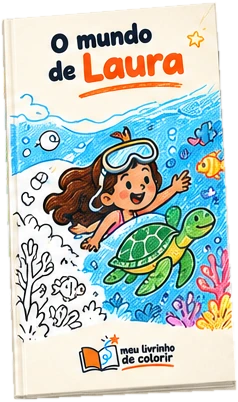
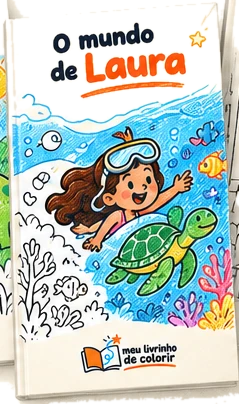
LP com caixas de diferenciais, faixas arredondadas e enfeites do kit
O dono pediu para ver no Behance como melhorar a LP e aplicar todos os
ajustes que não dependem de imagem nova. Vieram de projetos infantis de
lá, principalmente o BLOOMIE e o THYNK:

- "Por que é diferente" deixa a lista de emojis e vira caixas de tamanhos
  e cores diferentes: a grande, amarela, com o Rabisco lendo; as outras
  com os ícones de traço do kit; a garantia numa faixa larga embaixo;
- as seções de fundo cinza e azul viram faixas arredondadas, como blocos
  de papel, em vez de emendar uma na outra;
- uma seta de giz liga um passo ao outro no "Como funciona";
- estrela e coração de giz ao lado de alguns títulos, um por título;
- os temas "em breve" viram pílulas coloridas.

Setas, estrela, coração e o giz do "Pinte" foram recortados das pranchas
do kit (scripts/recorta-marca.py), sem desenho novo feito à mão.

Claude-Session: https://claude.ai/code/session_015PJY1q4WCmtjG78ZMrGoTa

diff --git a/app/globals.css b/app/globals.css
@@ -50,6 +50,14 @@ p { margin: 0 0 1em; }
 .secao { padding: 64px 0; position: relative; }
 .secao-nuvem { background: var(--nuvem); }
 .secao-azul { background: #e3f3fc; }
+/* Faixas arredondadas, como blocos de papel sobre a mesa (referência: BLOOMIE) */
+.secao-nuvem, .secao-azul { margin: 0 10px; border-radius: 32px; }
+@media (min-width: 760px) { .secao-nuvem, .secao-azul { margin: 0 24px; border-radius: 48px; } }
+/* Rabisco de giz do kit ao lado do título, um por título no máximo */
+.titulo-rabisco { position: relative; display: inline-block; padding-right: 0.15em; }
+.titulo-rabisco::after { content: ''; position: absolute; top: -0.45em; right: -0.95em; width: 0.9em; height: 0.9em; background: center / contain no-repeat; transform: rotate(12deg); pointer-events: none; }
+.titulo-estrela::after { background-image: url('/marca/estrela-giz.webp'); }
+.titulo-coracao::after { background-image: url('/marca/coracao-giz.webp'); }
 .titulo-secao { text-align: center; max-width: 720px; margin: 0 auto 36px; }
 .titulo-secao .rabisco { margin: 0 auto 4px; width: 96px; height: auto; }
 .titulo-secao .rabisco + h2 { margin-top: 0; }
@@ -119,7 +127,13 @@ p { margin: 0 0 1em; }
 .passo { text-align: center; position: relative; }
 .passo .passo-icone { height: 56px; width: auto; margin: 4px auto 10px; }
 .passo .numero { display: inline-grid; place-items: center; width: 38px; height: 38px; border-radius: 50%; border: 2px solid var(--grafite); background: var(--amarelo); font-family: var(--fonte-titulo); font-weight: 800; margin-bottom: 8px; }
-@media (min-width: 760px) { .passos { grid-template-columns: repeat(3, 1fr); } }
+/* Seta de giz do kit entre um passo e o próximo */
+.passo:not(:last-child)::after { content: ''; position: absolute; left: 50%; bottom: -26px; width: 64px; height: 20px; transform: translateX(-50%) rotate(90deg); background: url('/marca/seta-giz.webp') center / contain no-repeat; }
+.passos { gap: 40px; }
+@media (min-width: 760px) {
+  .passos { grid-template-columns: repeat(3, 1fr); gap: 56px; }
+  .passo:not(:last-child)::after { left: auto; right: -58px; bottom: auto; top: 46%; transform: none; }
+}
 
 /* Prévia interativa */
 .previa { display: grid; gap: 28px; align-items: center; }
@@ -167,7 +181,10 @@ p { margin: 0 0 1em; }
 .janela-vitrine { display: grid; place-items: center; margin: 14px 0; }
 .janela-vitrine img { max-height: 60vh; width: auto; height: auto; }
 .em-breve { display: flex; flex-wrap: wrap; gap: 8px; justify-content: center; margin-top: 22px; }
-.em-breve span { background: var(--branco); border: 2px dashed var(--grafite-suave); border-radius: 999px; padding: 4px 12px; font-size: 0.92rem; }
+.em-breve span { background: #fff3c9; border-radius: 999px; padding: 6px 14px; font-size: 0.92rem; font-weight: 700; }
+.em-breve span:nth-of-type(4n+2) { background: #ffe0ee; }
+.em-breve span:nth-of-type(4n+3) { background: #d8effb; }
+.em-breve span:nth-of-type(4n+4) { background: #def2dd; }
 @media (min-width: 760px) { .galeria { grid-auto-flow: row; grid-template-columns: repeat(3, 1fr); overflow: visible; } }
 
 .janela-fundo { position: fixed; inset: 0; background: rgba(43, 45, 66, 0.55); z-index: 50; display: grid; place-items: center; padding: 16px; }
@@ -176,13 +193,23 @@ p { margin: 0 0 1em; }
 .janela-topo { display: flex; justify-content: space-between; align-items: center; gap: 12px; }
 .fechar { border: 2px solid var(--grafite); background: var(--branco); border-radius: 50%; width: 44px; height: 44px; font-size: 1.3rem; cursor: pointer; flex: none; }
 
-/* Diferenciais */
+/* Diferenciais em caixas de tamanhos e cores diferentes */
 .diferenciais { display: grid; gap: 14px; }
-.diferencial { display: flex; gap: 14px; align-items: flex-start; }
-.diferencial .emoji { font-size: 1.8rem; flex: none; width: 52px; height: 52px; display: grid; place-items: center; background: var(--branco); border: 2px solid var(--grafite); border-radius: 16px; }
-.diferencial h3 { margin-bottom: 2px; font-size: 1.2rem; }
+.diferencial { background: var(--branco); border: 1.5px solid var(--contorno-suave); border-radius: var(--raio); padding: 22px; display: flex; flex-direction: column; gap: 10px; }
+.diferencial-arte { height: 56px; width: auto; align-self: flex-start; object-fit: contain; }
+.diferencial h3 { margin-bottom: 4px; font-size: 1.2rem; }
 .diferencial p { margin: 0; color: var(--grafite-suave); }
-@media (min-width: 760px) { .diferenciais { grid-template-columns: repeat(2, 1fr); gap: 22px 32px; } }
+.diferencial.destaque { background: var(--amarelo); border-color: transparent; }
+.diferencial.destaque p { color: var(--grafite); }
+.diferencial.destaque .diferencial-arte { height: 150px; }
+.diferencial.azul { background: #cfeafa; border-color: transparent; }
+.diferencial.largo { flex-direction: row; align-items: center; }
+@media (min-width: 760px) {
+  .diferenciais { grid-template-columns: repeat(3, 1fr); }
+  .diferencial.destaque { grid-row: span 2; justify-content: flex-end; }
+  .diferencial.destaque .diferencial-arte { height: 190px; }
+  .diferencial.largo { grid-column: span 3; }
+}
 
 /* FAQ */
 .faq { max-width: 760px; margin: 0 auto; display: grid; gap: 12px; }

diff --git a/app/page.tsx b/app/page.tsx
@@ -10,13 +10,14 @@ import { FAMILIAS_ATENDIDAS, SITE } from '@/lib/config';
 import { PERGUNTAS } from '@/lib/faq';
 import { emReais, MENOR_PRECO, PRODUTOS } from '@/lib/produtos';
 
+// Caixas de tamanhos e cores diferentes (referência: BLOOMIE no Behance); ícones e Rabisco do kit.
 const DIFERENCIAIS = [
-  { emoji: '✏', titulo: 'Desenhos com traço grosso', texto: 'Fáceis de pintar até para os pequenos.' },
-  { emoji: '📖', titulo: 'Tem história de verdade', texto: 'Não são só desenhos soltos: a criança vira a heroína.' },
-  { emoji: '🎨', titulo: 'Personagens próprios', texto: 'Nada de cópia de personagem famoso.' },
-  { emoji: '⚡', titulo: 'Pronto em minutos', texto: 'Nada de esperar os Correios. Você recebe na hora.' },
-  { emoji: '🖨', titulo: 'Imprima quantas vezes quiser', texto: 'Um para cada convidado da festa.' },
-  { emoji: '💛', titulo: 'Garantia de 7 dias', texto: 'Se não gostar, devolvemos o seu dinheiro.' },
+  { arte: { src: '/marca/rabisco-com-livro.webp', l: 220, a: 353 }, titulo: 'Tem história de verdade', texto: 'Não são só desenhos soltos: a criança vira a heroína, com o nome dela no texto.', jeito: 'destaque' },
+  { arte: { src: '/marca/icone-pinte.webp', l: 116, a: 73 }, titulo: 'Desenhos com traço grosso', texto: 'Fáceis de pintar até para os pequenos.', jeito: '' },
+  { arte: { src: '/marca/icone-personalize.webp', l: 99, a: 61 }, titulo: 'Personagens próprios', texto: 'Nada de cópia de personagem famoso.', jeito: 'azul' },
+  { arte: { src: '/marca/estrela-giz.webp', l: 83, a: 89 }, titulo: 'Pronto em minutos', texto: 'Nada de esperar os Correios. Você recebe na hora.', jeito: '' },
+  { arte: { src: '/marca/icone-imprima.webp', l: 58, a: 62 }, titulo: 'Imprima quantas vezes quiser', texto: 'Um para cada convidado da festa.', jeito: '' },
+  { arte: { src: '/marca/coracao-giz.webp', l: 73, a: 86 }, titulo: 'Garantia de 7 dias', texto: 'Se não gostar, devolvemos o seu dinheiro. Sem perguntas.', jeito: 'largo' },
 ];
 
 const dadosEstruturados = {
@@ -151,7 +152,7 @@ export default function Inicio() {
         <section className="secao secao-nuvem" id="produtos">
           <div className="miolo">
             <div className="titulo-secao">
-              <h2>Escolha o seu livrinho</h2>
+              <h2 className="titulo-rabisco titulo-estrela">Escolha o seu livrinho</h2>
               <p>Você paga uma vez e imprime quantas vezes quiser.</p>
             </div>
             <div className="produtos">
@@ -214,7 +215,7 @@ export default function Inicio() {
         <section className="secao" id="temas">
           <div className="miolo">
             <div className="titulo-secao">
-              <h2>Temas exclusivos</h2>
+              <h2 className="titulo-rabisco titulo-coracao">Temas exclusivos</h2>
               <p>Toque numa capa para ver as páginas por dentro.</p>
             </div>
             <GaleriaDeTemas />
@@ -225,12 +226,12 @@ export default function Inicio() {
         <section className="secao secao-azul">
           <div className="miolo">
             <div className="titulo-secao">
-              <h2>Por que é diferente</h2>
+              <h2 className="titulo-rabisco titulo-estrela">Por que é diferente</h2>
             </div>
             <div className="diferenciais">
               {DIFERENCIAIS.map((d) => (
-                <div key={d.titulo} className="diferencial">
-                  <span className="emoji" aria-hidden="true">{d.emoji}</span>
+                <div key={d.titulo} className={`diferencial ${d.jeito}`}>
+                  <Image src={d.arte.src} alt="" width={d.arte.l} height={d.arte.a} className="diferencial-arte" />
                   <div>
                     <h3>{d.titulo}</h3>
                     <p>{d.texto}</p>
@@ -247,7 +248,7 @@ export default function Inicio() {
         <section className="secao" id="duvidas">
           <div className="miolo">
             <div className="titulo-secao">
-              <h2>Perguntas frequentes</h2>
+              <h2 className="titulo-rabisco titulo-coracao">Perguntas frequentes</h2>
             </div>
             <div className="faq">
               {PERGUNTAS.map((p) => (

diff --git a/scripts/recorta-marca.py b/scripts/recorta-marca.py
@@ -34,3 +34,9 @@ corta(A,(872,98,1528,522),'public/marca/livros-exemplo.webp',1400)
 corta(A,(872,98,1100,500),'public/marca/livro-dinossauro.webp',600)
 corta(A,(1083,118,1322,522),'public/marca/livro-fundo-do-mar.webp',600)
 corta(A,(1318,95,1526,495),'public/marca/livro-natal.webp',600)
+# Enfeites de giz: a seta entre os passos, a estrela e o coração da campanha, o giz do "Pinte".
+C='campanhas/seu-nome-sua-aventura.png'
+corta(A,(265,548,358,598),'public/marca/seta-giz.webp',240)
+corta(A,(640,537,760,610),'public/marca/icone-pinte.webp',240)
+corta(C,(30,415,118,510),'public/marca/estrela-giz.webp',200)
+corta(C,(1015,470,1100,560),'public/marca/coracao-giz.webp',200)

diff --git a/docs/identidade-visual.md b/docs/identidade-visual.md
@@ -232,4 +232,6 @@ O recorte do símbolo e a textura perdem detalhes naturalmente em 16 px. Para us
 - **Componentes:** escala de títulos e corpo de 18 px; botões em pílula com sombra curta de 3 px e contorno só no secundário; cartões de raio 24 com contorno discreto; campos de 48 px com foco grafite.
 - **Primeiro bloco:** chamada e apoio da seção 9 e a ação secundária "Ver um exemplo". O apoio mantém "livrinho de colorir" e "lembrancinha" por causa da busca.
 
+- **Ajustes vindos do Behance (18/10/2026):** "Por que é diferente" em caixas de tamanhos e cores diferentes, com o Rabisco lendo e os ícones do kit (referência: BLOOMIE); seções cinza e azul como faixas arredondadas; seta de giz do kit entre os passos; estrela e coração de giz da campanha ao lado de alguns títulos; temas "em breve" em pílulas coloridas.
+
 **Ainda não aplicado:** capas e páginas de amostra do Natal e do Fundo do mar no estilo da marca (as da prancha têm cerca de 200 px e texto gravado, então ficariam borradas e não aceitam o nome ao vivo); emojis dos produtos e dos diferenciais.
